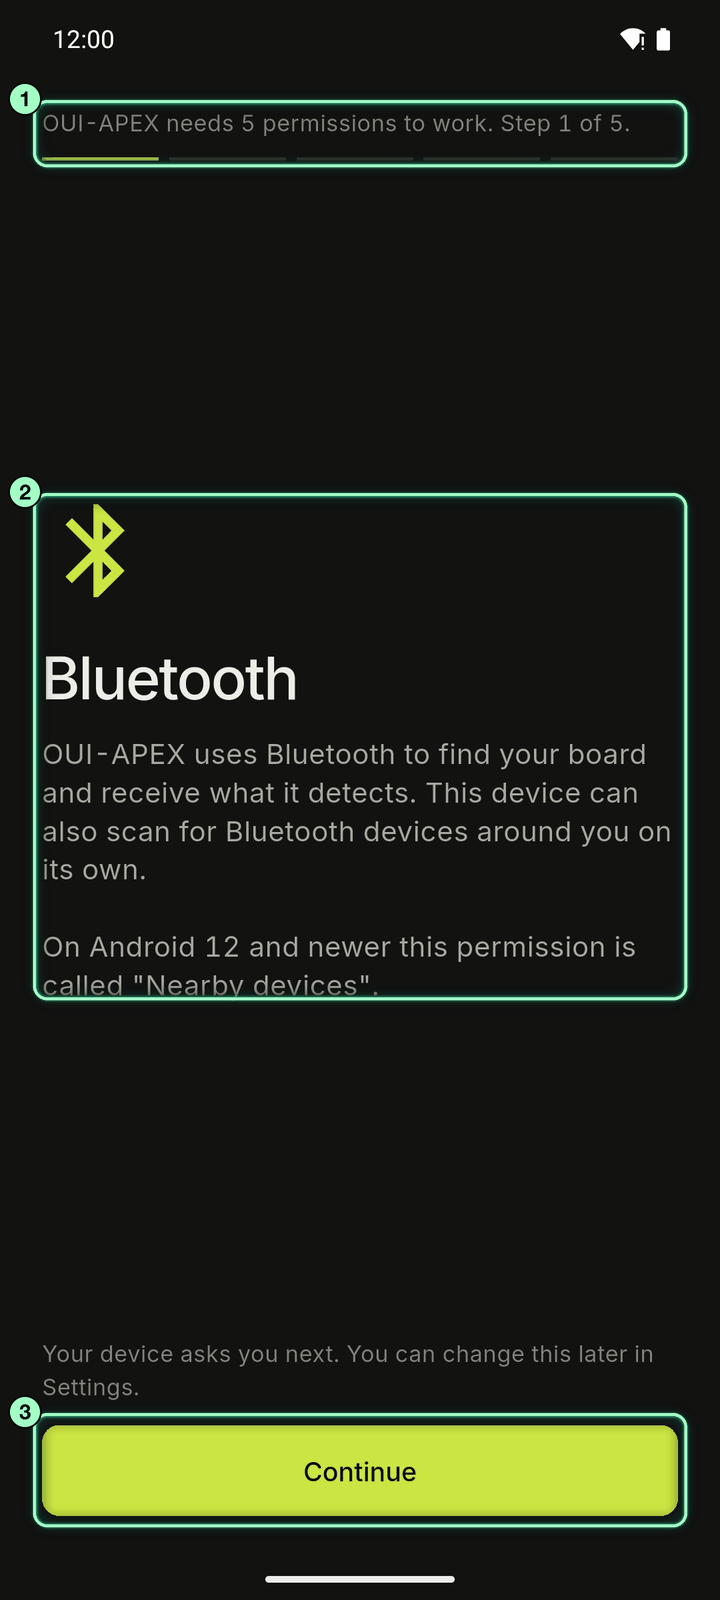
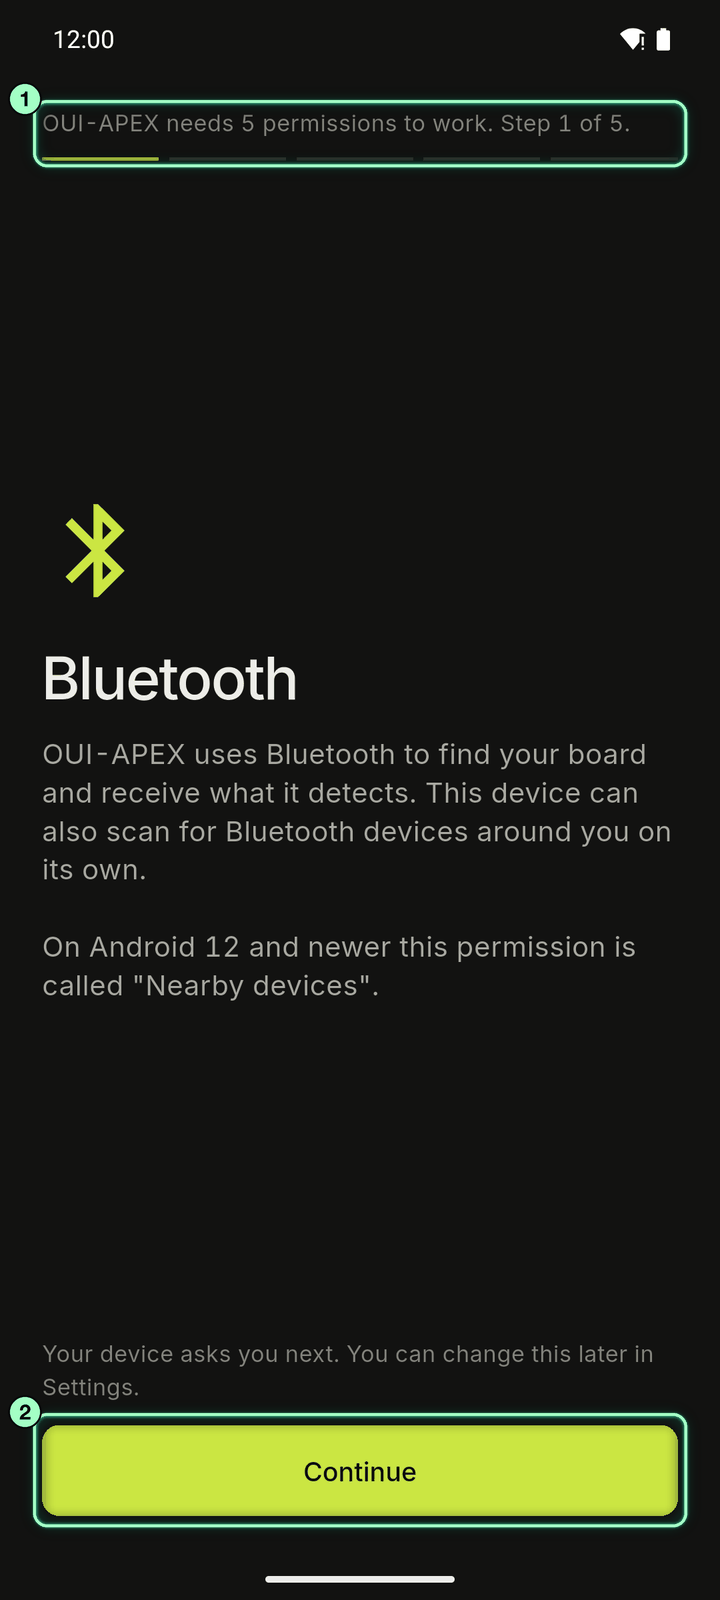
docs: trim text and highlights

Changed region(s): [[0.0, 0.2812, 0.9472, 0.625], [0.9167, 0.3125, 0.9778, 0.625]]

diff --git a/README.md b/README.md
@@ -73,7 +73,6 @@ The app asks for each permission on its own screen, then opens Home.
     <td width="33%" valign="top"><img width="240" src="docs/screenshots/tour/01-permissions.png" alt="Permission step: Bluetooth" />
       <ol>
         <li><b>Progress</b>: which permission step you are on. Android asks for five.</li>
-        <li><b>Why</b>: what the app uses this permission for.</li>
         <li><b>Continue</b>: your phone shows its own prompt next.</li>
       </ol></td>
     <td width="33%" valign="top"><img width="240" src="docs/screenshots/tour/02-location-always.png" alt="Permission step: location all the time" />
@@ -85,9 +84,7 @@ The app asks for each permission on its own screen, then opens Home.
       <ol>
         <li><b>Status</b>: board link and GPS fix.</li>
         <li><b>Shortcuts</b>: the arrows open the Connect screen. The phone icon starts the phone scan.</li>
-        <li><b>CONNECT</b>: find your board over Bluetooth.</li>
-        <li><b>USE THIS DEVICE</b>: scan with the phone's own radios.</li>
-        <li><b>Engines</b>: what each engine looks for.</li>
+        <li><b>USE THIS DEVICE</b>: scan with the phone's own radios, no board needed.</li>
       </ol></td>
   </tr>
 </table>
@@ -102,14 +99,12 @@ Pick what to look for and which radios to use, then tap START.
       <ol>
         <li><b>Counters</b>: unique devices, engines running, and hits per minute.</li>
         <li><b>Targets</b>: Flock cameras, drones, every Wi-Fi and BLE device (SCAN), and your watchlist (DETECT).</li>
-        <li><b>Radio</b>: Wi-Fi, BLE or both.</li>
         <li><b>START</b>: starts a session. The app then asks which radio each board uses.</li>
         <li><b>Engine cards</b>: turn one engine on or off by itself.</li>
       </ol></td>
     <td width="50%" valign="top"><img width="300" src="docs/screenshots/tour/05-home-running.png" alt="Home during a scan" />
       <ol>
         <li><b>Status</b>: what is scanning and how good the GPS fix is.</li>
-        <li><b>Counters</b>: update live.</li>
         <li><b>PAUSE / STOP</b>: pause or end the session. A stopped session is saved.</li>
         <li><b>Hit counts</b>: hits per engine this session, next to its switch.</li>
       </ol></td>
@@ -124,7 +119,6 @@ Everything the boards and the phone hear, live. Tap any row for its details.
   <tr>
     <td width="50%" valign="top"><img width="300" src="docs/screenshots/tour/06-live.png" alt="Live detections list" />
       <ol>
-        <li><b>Tabs</b>: LIVE hits, classified DEVICES, stored HISTORY and ALERTS.</li>
         <li><b>Tools</b>: filter, sort, group Wi-Fi clients under their network, open HISTORY, and more.</li>
         <li><b>Top vendors and Flock</b>: tap a vendor to show only its devices.</li>
         <li><b>A drone</b>: its Remote ID, the radio that heard it, and its altitude.</li>
@@ -133,12 +127,9 @@ Everything the boards and the phone hear, live. Tap any row for its details.
       </ol></td>
     <td width="50%" valign="top"><img width="300" src="docs/screenshots/tour/07-device-sheet.png" alt="Details of a Wi-Fi network" />
       <ol>
-        <li><b>Type</b>: what kind of device this is.</li>
         <li><b>What this looks like</b>: the app's best guess, in plain words.</li>
         <li><b>Foxhunt this device</b>: follow its signal to the source.</li>
-        <li><b>Check this AP on WiGLE</b>: look the network up on WiGLE.</li>
         <li><b>Trust this network</b>: warns you later about lookalikes. See <a href="#watches-and-alerts">Watches and alerts</a>.</li>
-        <li><b>Map, Copy, Delete</b>: show it on the map, copy its MAC address, or remove it.</li>
       </ol></td>
   </tr>
   <tr>
@@ -167,16 +158,12 @@ Choose which device types alert you. Every alert lands in one list.
     <td width="50%" valign="top"><img width="300" src="docs/screenshots/tour/08-alerts.png" alt="Alerts list" />
       <ol>
         <li><b>An alert</b>: what was found, why, and when. Tap it for the map and the device.</li>
-        <li><b>Kind</b>: each kind has its own color.</li>
         <li><b>Count and clear</b>: how many alerts, and a button to clear them.</li>
-        <li><b>Info</b>: explains each tab and icon.</li>
       </ol></td>
     <td width="50%" valign="top"><img width="300" src="docs/screenshots/tour/11-what-to-watch.png" alt="Settings, What to Watch For" />
       <ol>
         <li><b>Alert threshold</b>: how sure a detector hit must be before it notifies you.</li>
-        <li><b>A device type</b>: what it covers.</li>
         <li><b>Bell</b>: notify, or only log it.</li>
-        <li><b>Switch</b>: watch for this type or not.</li>
       </ol></td>
   </tr>
 </table>
@@ -190,21 +177,15 @@ Every hit is placed where you heard it, along your route. The numbers are how ma
     <td width="50%" valign="top"><img width="300" src="docs/screenshots/tour/10-map-list.png" alt="Map during a wardrive with the Flock list open" />
       <ol>
         <li><b>Session</b>: time recording, and counts of Wi-Fi, Flock, drone, detector and BLE hits.</li>
-        <li><b>Flock list</b>: tap the chip to open or close it. Drones and detector hits have their own.</li>
-        <li><b>Each hit</b>: its name, type, address and signal. Tap a row to zoom the map to it.</li>
+        <li><b>Flock list</b>: tap the chip to open or close it. Tap a row to zoom the map to it. Drones and detector hits have their own lists.</li>
         <li><b>Drive</b>: distance, speed, hits per km, and Stop / Pause.</li>
       </ol></td>
     <td width="50%" valign="top"><img width="300" src="docs/screenshots/tour/09-map.png" alt="A saved wardrive session on the map" />
       <ol>
         <li><b>Saved session</b>: unique devices, total hits and distance.</li>
         <li><b>Lists</b>: Flock, drone and detector hits from this session.</li>
-        <li><b>CSV</b>: export the session as a WiGLE CSV.</li>
-        <li><b>Layers</b>: map style and extra layers.</li>
         <li><b>A drone</b>: its flight path and its pilot.</li>
         <li><b>A cluster</b>: tap it to list the devices there.</li>
-        <li><b>Targets</b>: what the next session looks for.</li>
-        <li><b>Radio</b>: Wi-Fi, BLE or both.</li>
-        <li><b>START</b>: start a new session.</li>
         <li><b>SESSIONS</b>: open, export or delete saved sessions.</li>
       </ol></td>
   </tr>
@@ -220,21 +201,14 @@ Every session is saved. Open one to replay it on the map, or open its report.
       <ol>
         <li><b>SELECT, IMPORT, CLEAR ALL</b>: pick several sessions, load a WiGLE CSV, or delete them all.</li>
         <li><b>A session</b>: when, how long, how far, and its Wi-Fi, BLE, Flock, drone and detector counts. Tap it to replay it on the map.</li>
-        <li><b>REPORT</b>: opens the report.</li>
-        <li><b>CSV, DELETE</b>: export or remove this session.</li>
       </ol></td>
     <td width="33%" valign="top"><img width="240" src="docs/screenshots/tour/14-report.png" alt="Wardrive report, top" />
       <ol>
-        <li><b>Session</b>: start time, length and distance.</li>
         <li><b>Totals</b>: Wi-Fi networks, how many were new, and Bluetooth devices.</li>
-        <li><b>Route</b>: where you drove.</li>
         <li><b>Wi-Fi networks</b>: new, seen before, hidden, and per band.</li>
-        <li><b>Share</b>: sends the report as text.</li>
       </ol></td>
     <td width="33%" valign="top"><img width="240" src="docs/screenshots/tour/15-report-detail.png" alt="Wardrive report, details" />
       <ol>
-        <li><b>Security</b>: how many networks use each kind of security.</li>
-        <li><b>Top makers</b>: the most common device makers.</li>
         <li><b>Detections</b>: Flock cameras, drones and watchlist hits.</li>
         <li><b>Alerts</b>: every alert kind raised during the session. Further down, whether it was uploaded to WiGLE and WDGWars.</li>
       </ol></td>
@@ -261,12 +235,12 @@ Every session is saved. Open one to replay it on the map, or open its report.
 | **Detector** | Your watchlist (exact MAC, maker prefix, Bluetooth name contains, starts with or pattern, Bluetooth company ID, company data with a mask, 16-bit or 128-bit service UUID, Wi-Fi probe prefix, Wi-Fi beacon prefix, and a phone-only maker name), plus built-in signatures, all off by default: tracker tags following you (AirTag, AirPods and other Find My items, SmartTag, Tile, Google Find Hub, Chipolo, Pebblebee, DULT-standard tags), floods of new tracker tag addresses, Flipper Zero, Wi-Fi deauth floods, floods of join requests at one access point, Wi-Fi beacon floods (one radio faking 15+ networks), directed probes, evil-twin and KARMA rogue access points, Pwnagotchi, Meshtastic and MeshCore mesh radios, Meta Ray-Ban / Oakley glasses, Axon / law-enforcement gear, Motorola Solutions radios and body cams, i-PRO body cams, police and fleet vehicle routers, security / doorbell / dash cameras by vendor OUI or camera brand in the network or device name (Ring, Nest, Arlo, Blink, Wyze, Hikvision, Dahua and others), Amazon Sidewalk BLE, wearable cameras and recorders (GoPro, Insta360, Snap Spectacles, Even Realities, Vuzix, Brilliant Labs Frame, PLAUD), vehicles (Teslas, Bluetooth OBD-II dongles), drones over Bluetooth (Remote ID, DJI) |
 | **Flock BLE / Flock WiFi** | Flock Safety ALPR cameras, Raven gunshot sensors, Penguin and Pigvision. Optional OUI-only Wi-Fi hits |
 | **Sky Spy** | Drones broadcasting FAA Remote ID over BLE and Wi-Fi: ID, position, altitude, speed, pilot position |
-| **Foxhunter** | One target device. Beep rate (or the RSSI meter on boards without a buzzer) rises as you get closer. The app's FIND IT view shows the signal in dBm and a ring that pulses faster as it climbs (every 1.4 s weak, every 0.09 s close), and the phone buzzes with each pulse; **Buzz on** / **Buzz off** switches it, and a Mac has no buzz. The reading comes from the node that hears the device best |
+| **Foxhunter** | One target device. The board beeps faster as you get closer. The app's FIND IT view shows the signal and a ring that pulses faster, and the phone can buzz with it |
 | **UniPwn** | Unitree robots by BLE name (`Go2_`, `G1_`, `H1_`, …) |
 | **Wardrive** | Every Wi-Fi AP and BLE device, GPS-stamped, WiGLE CSV format. 2.4 GHz channels 1–14 by default; C5 boards add 5 GHz including DFS and, with the **802.15.4 (Zigbee, Thread)** switch, passive 802.15.4 receive on channels 11–26 (PAN ID, source address, beacon info, channel, LQI; receive only, never transmits) |
 | **PCAP** | Raw 802.11, BLE advertising or (C5 boards) 802.15.4 frames to a Wireshark `.pcap` |
-| **AXEOFF** | Axon gear only, headless: BLE adverts with Axon's company ID `0x034D`, service `0xFC81` / `0xFE6B` / `0xFE6C` or `00:25:DF` address prefix, and Wi-Fi probe requests and beacons from `00:25:DF` while it sweeps channels 11 to 1. Passive on both radios. Hits show as Axon detections; the board plays the Axon appeared, still-near (faster as it gets closer) and lost tones, and a four-note start tone. It stops reporting after 8 s of silence. On a mesh node it joins the channel handoff like the other Wi-Fi engines, and a manager's Sky Spy node denies it |
-| **BLE Sniff** | Every Bluetooth LE advert, repeats included, as a live list (type, address kind, signal, name, services, maker) with filters for advert type and address kind, and **RECORD PCAP** to save a Wireshark file on the phone. Passive, never sends a scan request. Stop PCAP capture first, they share the Bluetooth radio. Needs the phone connected to the board: the list is not relayed over the mesh, so on a manager pick the node to sniff on |
+| **AXEOFF** | Axon gear only, on Bluetooth and Wi-Fi, passive. The board plays a tone when Axon gear appears, while it stays near, and when it leaves |
+| **BLE Sniff** | Every Bluetooth LE advert as a live list, with filters and **RECORD PCAP**. Passive. Needs the board connected to the phone directly, or picked as the node on a manager |
 | **FPV receiver** | Analog 5.8 GHz FPV video transmitters on 44 of the 48 standard channels. XIAO ESP32-C5 only. See [FPV receiver](#fpv-receiver) |
 
 > [!IMPORTANT]
@@ -295,7 +269,9 @@ DETECTIONS → HISTORY can filter by tier.
 | **Phone + USB radios** | Android, no board; plug in an RTL-SDR and/or a USB Wi-Fi adapter | SDR decodes 315 / 433 / 915 MHz and ADS-B. A USB Wi-Fi adapter scans Wi-Fi, and the MT7921AU also scans Bluetooth LE. Both run alongside the phone's radios |
 
 - **Offline scan** (SETTINGS → NODE → OFFLINE SCAN): the board keeps scanning without the phone, even after a reboot, and uploads hits on reconnect. A directly connected board with a GPS module fix also wardrives, one row per device every 5 min, up to 1 MB. It stops after 60 s without a fix.
-- **Private Bluetooth link:** the board changes its private address at random every 5–15 min. After pairing, it hides its name and refuses unknown phones. The paired phone reconnects on its own, even after a reboot. Pairing asks for the board's 6-digit PIN: 123456 on a new board. The CONNECT screen shows this under each new board. Change it in SETTINGS → NODE → Firmware → **Bluetooth PIN**. While a connected board still uses 123456, the app offers **SET PIN** or **LATER** after connecting, once per board each time the app starts. A PIN of 123456 is not accepted as your own. If pairing fails, CONNECT says whether the board is not taking new phones or the PIN was wrong. A phone paired before the PIN existed must forget the board and pair again. To pair another phone, restart the board: it accepts one new phone in the 2 min after power-on. After updating an S3, C3 or older ESP32 board, forget it in your phone's Bluetooth settings and pair again.
+- **Private Bluetooth link:** after pairing, the board hides its name, changes its address every 5–15 min and refuses unknown phones. The paired phone reconnects on its own.
+- **PIN:** a new board's PIN is 123456. The app asks you to set your own after the first pairing. Change it in SETTINGS → NODE → Firmware → **Bluetooth PIN**.
+- **Pair another phone:** restart the board. It accepts one new phone in the 2 min after power-on. After updating an S3, C3 or older ESP32 board, forget it in your phone's Bluetooth settings and pair again.
 - **JCMK node hub** (SETTINGS → NODE → JCMK NODE HUB): the board adds Wi-Fi networks from [Piglet](https://github.com/hamspiced/piglet) ESP-NOW nodes to your wardrive. Tap **Start hub**, power on a Piglet, and tap **Pair** under **Nearby nodes**. The hub board leaves the mesh while it runs. The wardrive radio picker can leave out any paired node.
 
 ## App
@@ -369,7 +345,7 @@ These features add their own alerts and set how alerts sound.
 - **Movement alerts** (Detection & Alerts → What to Watch For, off by default) warn about a car following you, an aircraft circling you (ADS-B), a drone hovering near you or its pilot closing in, and a device moving from one mesh node to another. A car counts as following when the RTL-SDR hears its tire sensors over 2+ km and 10+ min. The app learns your own car.
 - **Watchlist** imports and exports as CSV or JSON in SETTINGS → Detection & Alerts → Your Lists. A CSV row is `identifier,description,kind` where kind is OUI, MAC, UUID, CONTAINS, STARTS, PATTERN, COMPANY, DATA, PROBE, BEACON or MAKER; JSON rows use `matchType` with the same kinds by their camelCase names.
 - **Add a rule** (the **+** on the watchlist) builds a rule from a kind and a value. Bluetooth rules: exact MAC; maker prefix; name contains, starts with, or pattern (`#` a hex digit, `?` any character, `*` any run, whole name, such as `S################C` for a Tesla); company ID (`004C`); company data with a mask (`004C:121910/FFFF30`: the bits set in the mask must match); service UUID, 16-bit (`FD5F`) or 128-bit. Wi-Fi rules: probe prefix (the source address of a probe or association request) and beacon prefix (a beacon or probe response), 3 to 6 bytes. A maker name rule is phone-only: it flags a WiGLE import or rescan row whose address maps to that maker, and nodes never receive it. Name rules are ASCII, up to 18 characters, and ignore case.
-- **Rule limits:** a board holds 50 MAC and prefix rules, 50 service UUIDs and 32 name, company, Wi-Fi and 128-bit rules. One mesh frame carries 220 bytes of the list (about 31 MAC rules, fewer with other rules), so with a manager the fleet list gets the first part and the add and import messages say so. Nodes name a rule they match by its kind and value, such as "Name has Flipper"; the description you type stays on the phone. A board on firmware without these rules ignores them and keeps the MAC, prefix and 16-bit UUID rules; a node that old still reports a list as taken. Rules never reach firmware that predates them, and an app that predates them reads the new kinds as maker prefixes it cannot parse and sends nothing for them.
+- **Rule limits:** a board holds 50 MAC and prefix rules, 50 service UUIDs and 32 other rules. Through a manager, the mesh carries about 31 MAC rules, and the app says when a list is cut short. Older firmware keeps only the MAC, prefix and 16-bit UUID rules.
 - **Alert when a board hears it** (tap a Bluetooth device in the feed) adds its exact MAC to the watchlist. The connected board, and through a manager every mesh node, then reports it as a detection. **UNDO** in the message takes it back off. A device with a random address may change it.
 - **Alert sounds** plays a built-in melody or one you compose for each alert type. You can preview it on the board. **Sound on this phone** in the same screen turns the phone's sound on or off for filter hits, trackers, watched devices, drones, node down and node back.
 - **Alert again** (SETTINGS → Detection & Alerts → Notifications → **Repeat for a device**): a device alerts the first time, and again once it has gone 60 seconds unheard. The slider changes that time.
@@ -385,8 +361,8 @@ These features add their own alerts and set how alerts sound.
 - **Measure:** tap the ruler button, then tap the map to add points. The label shows the total length. Tap the ruler again to stop.
 - **Follow on map:** tap a drone that sends Remote ID, then **Follow on map**. The map opens and keeps the drone centered as its position updates. A chip at the top names it. Tap its **X**, drag the map, or tap the follow button to let go.
 - **Detection location:** a drone's flight shows the spot where this phone was when the flight was first heard, a dashed line to the drone and the range, on its drone page, the Sky Spy map and the main map. A flight ends after 5 minutes unheard (25 minutes while it stays above 10 m).
-- **Drones list:** SKY SPY → the history button opens every drone heard in a window of 1, 4, 8 or 24 hours, all time, or dates you pick, the ones in the air first. A drone you named shows that name with its ID underneath. The top shows how many are live, airborne, have a pilot located, the highest height and how many are in the window. Tap a drone for its page: its tag, **Name, group and notes** (your name shows as the page title, the same name the feed uses for that MAC), a map of the flight with its pilot and detection location, its FAA record, its past flights and its kit.
-- **Remote ID or FPV:** the Drones list has **All**, **Remote ID** and **FPV** chips under the time window. FPV rows show the channel and `LVL` (a relative level, not dBm) with no pilot and no FAA record, and are left out of the pilot count. The chip you pick is remembered, like the time window. Export saves the rows the chip shows. With a connected XIAO ESP32-C5 running the FPV receiver, an **FPV RECEIVER** card on **All** and **FPV** shows the receiver's state, tuned channel, level and flagged count. Tap it to open the FPV receiver. It shows no picture.
+- **Drones list:** SKY SPY → the history button opens every drone heard in a time window you pick, the ones in the air first. Tap a drone for its page: its tag, **Name, group and notes**, a map of the flight with its pilot, its FAA record, past flights and kit.
+- **Remote ID or FPV:** chips under the time window filter the Drones list. FPV rows show the channel and a relative level, with no pilot. With an FPV receiver running, an **FPV RECEIVER** card opens it.
 - **Tags:** tag a drone **Friendly**, **Neutral**, **Suspicious** or **Hostile** on its page. The tag colors its marker, shows in the lists and in exports, and is kept on this phone.
 - **Drone log:** every Remote ID report is saved to the phone for 90 days. **Export logs** on the Drones list or a drone's page saves a CSV (every report; FPV rows leave `rssi_dbm` empty and fill `level`) or KML (flights, pilot, detection location and range, for Google Earth and ATAK).
 - **Drone kit:** a drone's page lists the devices that belong to it: controller, goggles, dock, Remote ID module, the drone's own Wi-Fi, pilot phone or other. Add a device you heard, or take a suggestion: a device with a known controller or module name, or one heard almost only around the drone's flights, near its pilot or take-off.
@@ -402,7 +378,7 @@ These features add their own alerts and set how alerts sound.
 The app saves Wi-Fi, BLE or 802.15.4 traffic as PCAP files that Wireshark opens.
 
 - Start, pause and resume a capture by hand.
-- **802.15.4** mode needs a C5 board; on any other it stays visible, disabled, with the reason. The **5 GHz** setting under Wi-Fi works the same way. Pick a channel range from 11 to 26; the board hops through it. Frames save with link type 195 (IEEE 802.15.4 with FCS, recomputed from the frames the radio accepted) in a `_154_` file. A T-Dongle-C5 also writes `cap_*_154.pcap` to its SD card. The pcap carries no channel or signal level.
+- **802.15.4** and **5 GHz** need a C5 board. Pick a channel range from 11 to 26 and the board hops through it. A T-Dongle-C5 also writes `cap_*_154.pcap` to its SD card.
 - Auto-PCAP records 3–120 s whenever an engine fires.
 - SETTINGS → DATA → PCAPS lists saved captures.
 - **PROBES** (the toggle at the top of the PCAP screen, next to **CAPTURE**) is the probe database: which Wi-Fi networks nearby phones and laptops ask for by name. It fills from the detector's probe-request check and from every Wi-Fi capture, and is kept on the phone. **DEVICES** lists each asking device with its maker, probe count, signal, band, first and last heard and every network it names (a device that names the same networks as other MACs is flagged); **NAMED** hides devices that only ask for any network; **NETWORKS** ranks the names by how many devices ask, with their makers and any matching access points from your wardrives. Search, sort, **THIS RUN** and **CLEAR** are on the same screen.
@@ -410,7 +386,7 @@ The app saves Wi-Fi, BLE or 802.15.4 traffic as PCAP files that Wireshark opens.
 ### 802.15.4 wardrive (C5 boards)
 
 - A **802.15.4 (Zigbee, Thread)** switch sits under the radio picker. On a C5 board it works; on any other board, or with none connected, it stays off and disabled, with the reason.
-- The C5 has one RF path shared by Wi-Fi, BLE and 802.15.4, and 802.15.4 receive has the lowest priority. So the board hops 802.15.4 channels 11–26 in its own slot about every 8 s (about 2.4 s long), pausing Wi-Fi sniffing and BLE scanning for that slot. Frames sent outside the slot are missed.
+- The board listens on channels 11–26 for about 2.4 s every 8 s, and pauses Wi-Fi and BLE scanning meanwhile. It misses frames sent outside that window.
 - Sightings show in the feed and on the map in lime. Each shows the network name (Thread), PAN ID, short or EUI-64 source address, channel and LQI. Zigbee and Thread beacons also show the extended PAN ID and stack info.
 - The radio only listens: promiscuous mode, no ACKs, no beacons, no transmit.
 - Sightings are not in WiGLE exports, the board's away log or the T-Dongle's WiGLE CSV, which have no 802.15.4 type. They are in the detections CSV with radio `802.15.4`.
@@ -426,9 +402,6 @@ On a XIAO ESP32-C5 the app finds analog 5.8 GHz FPV video transmitters. It recei
       <ol>
         <li><b>Status</b>: LOCKED, TUNED or the running mode, the channel, its level, coherence and noise floor, and how many channels are flagged.</li>
         <li><b>Proximity</b>: the needle moves toward CLOSE as the tuned channel rises above the floor.</li>
-        <li><b>LEAVE FPV</b>: stops the receiver and restarts the Wi-Fi engines.</li>
-        <li><b>Modes</b>: SCAN, SWEEP or HOP.</li>
-        <li><b>Channel</b>: the arrows step to the previous or next channel and hold it.</li>
         <li><b>Channels</b>: brighter is stronger, a bolt marks a flagged transmitter, and tapping a cell holds that channel.</li>
       </ol></td>
   </tr>
@@ -442,7 +415,6 @@ On a XIAO ESP32-C5 the app finds analog 5.8 GHz FPV video transmitters. It recei
 - **Feed:** flagged channels appear in the Sky Spy list, the Drones list (**FPV** chip) and the feed as `FPV A1 5865`, with no position.
 - **Wi-Fi:** Wi-Fi engines pause while FPV is on and restart when you tap **LEAVE FPV**. FPV refuses to start while mesh or the ESP-NOW hub is on.
 - **Pins:** FPV drives GPIO 1, 0, 23, 7, 10, 5, 3 and 4 with receiver data. Keep them unconnected. It is not available on the T-Dongle-C5 or on manager builds.
-- **No video:** the raw receiver data is 40 MB/s and Bluetooth carries well under 0.2 MB/s, so the app shows signal levels only.
 - **Serial log:** every state change prints a line that starts with `[FPV]`.
 
 ### Lock screen and notifications
@@ -479,7 +451,7 @@ A language model can read what the app has seen and, when you allow it, change t
 - **ASK** is a chat. Every tool the model runs shows in the conversation with its arguments and what it returned. It stops after 12 rounds, and **Stop** cancels a run. The conversation is kept in memory only; **Clear the conversation** ends it.
 - **INTEL** (needs DEVICES) tells you what the model makes of one device: maker, likely kind, why it may matter. It sees the device's name, MAC, maker and how it was heard, never where.
 - **REPORTS** sums up the last 6, 12, 24 or 48 hours when you tap **Write one now**: new devices, alerts, drones, the wardriver and the mesh, within the grants. Positions are never included.
-- **Automatic (both off by default):** under **Automatic** in the same settings, **Look into new alerts automatically** runs INTEL on the device behind each new alert: at most one every 20 seconds and 40 a day, and never on a device that already has a note. **Write a report automatically** writes a report **Every** 1, 2, 4, 6, 12 or 24 hours, or **Daily** at a time you pick, covering the time since the last one (at most 7 days). Both run only while the app is open, with the assistant on and a model provider set up; INTEL also needs DEVICES, and a report needs at least one of DEVICES, DRONES, WARDRIVE or MESH. A report missed while the app was closed is written once when it next opens. Switching either on asks first, because it sends data to the provider without a tap, and names a cloud provider. Positions are never included.
+- **Automatic (both off by default):** **Look into new alerts automatically** runs INTEL on each new alert's device, at most 40 a day. **Write a report automatically** writes one every 1 to 24 hours, or daily at a time you pick. Both run only while the app is open, and ask first because they send data without a tap. Positions are never included.
 - **Text from the air is untrusted.** Names and network names are sent to the model as data, and it is told never to follow instructions found in them. Every change to the board still waits for your OK, whatever the model asks.
 - **Grants:** each of DEVICES, DRONES, WARDRIVE, MESH, CAPTURES, LOCATION, CONTROL and IRREVERSIBLE is off until you switch it on. Device health is always readable while the assistant is on. A tool outside the grants is refused.
 - **LOCATION off** removes every position from what the model reads: sightings, drones and pilots, mesh nodes. Positions are also scrubbed from the text of every reply.
@@ -524,14 +496,13 @@ The app can pair this phone's own Meshtastic radio over Bluetooth, so you can se
 
 - **Find a radio:** scans for radios that advertise the Meshtastic Bluetooth service. A radio talks to one phone at a time, so close the Meshtastic app first. If Android asks for a PIN, the radio's default is 123456.
 - **Reconnect:** the app connects to the saved radio when it starts and tries again every 15 s if the link drops. **Disconnect** or **Forget this radio** stops it.
-- **Channel:** the app sends only on a channel that has a key of its own. It never sends on the public channel (no key, or the one-byte default key), and it cannot be chosen. If the radio has no private channel, add one in the Meshtastic app. The app reads each channel's key length to tell the two apart and does not keep or show the key.
+- **Channel:** the app sends only on a private channel with its own key, never on the public one. If the radio has no private channel, add one in the Meshtastic app.
 - **Send a message** sends up to 200 characters. **Send my position** sends this phone's last position once, after you confirm. Nothing else is sent unless you turn on **Send alerts automatically** (below).
 - **Heard on the radio** lists the last text messages the radio received on the private channel. **Sent / heard** counts them.
-- **Send alerts automatically** is off by default and asks you to confirm when you turn it on. The app then sends each alert that already notifies you as a text, "OUI-APEX title: detail" cut to 200 bytes, with no tap. It includes what was detected and the device address, and never a position. Silenced alerts and silent suspected detections are not sent. An alert is skipped, and counted, when the radio is not connected, no private channel is picked, or a limit is hit.
-- **Alert types** choose which alerts go out: **Flock**, **Drones**, **Detector and watchlist**, **Foxhunt** (off by default) and **Node down and up**.
-- **Minimum gap between messages** (10 to 600 seconds, 60 by default) and **Messages per day** (1 to 200, 50 by default) keep a busy day off the shared LoRa channel. **Sent today** shows the count, for example "3 of 50 · skipped 2".
-- **Send to** sends each alert on the private channel, or straight to up to four nodes you name, like `!0a1b2c3d`. Auto-send works only while the radio is connected in the app.
-- **Change radio** scans again. **Forget this radio** disconnects and removes the saved radio and channel.
+- **Send alerts automatically** is off by default and asks you to confirm. Each alert that notifies you then goes out as a short text with what was detected and its address, never a position. Alerts are skipped and counted when the radio is not connected or a limit is hit.
+- **Alert types:** **Flock**, **Drones**, **Detector and watchlist**, **Foxhunt** (off by default) and **Node down and up**.
+- **Limits:** **Minimum gap between messages** (10 to 600 s, default 60) and **Messages per day** (1 to 200, default 50).
+- **Send to:** the private channel, or up to four nodes you name, such as `!0a1b2c3d`.
 
 ### App updates
 
@@ -587,7 +558,6 @@ Use an RTL2832U dongle with USB ID `0bda:2832` or `0bda:2838`. Open the SDR scre
     <td width="50%" valign="top"><img width="300" src="docs/screenshots/tour/12-sdr-scan.png" alt="SDR SCAN with decoded devices" /></td>
     <td width="50%" valign="top">
       <ol>
-        <li><b>Mode</b>: Spectrum, ADS-B or SCAN.</li>
         <li><b>Bands</b>: pick 315, 433 or 915 MHz, or several to sweep them, then tap START.</li>
         <li><b>Types</b>: tap a chip to turn that type on or off. Each chip counts what it found.</li>
         <li><b>Decoded devices</b>: newest first. Tap one for its details and to foxhunt it.</li>
@@ -686,15 +656,15 @@ Detector MAC, OUI and UUID targets, their labels, and signatures set in the app 
 - The manager pushes buzzer, LED, alert, alert-sound, ignore-list, wardrive-radio and Wi-Fi-band settings to every node.
 - Any mix of node boards works under one manager.
 - **Read all** (SETTINGS → NODE → MESH → **Fleet control**) asks every node for its build, filter count, uptime and how many peers it hears. The answers show under each node in **Nodes**. **Read status** in a node's own dialog asks just that node. Nodes on older firmware do not answer.
-- **Presets** (SETTINGS → Detection & Alerts → Your Lists → Watchlist → **Presets**) are ten signature sets: Axon, Meta glasses, i-PRO, Verkada, Trackers, Drones, Vehicles, Wearables, Flipper and Police. Tap one for **WATCH ON PHONE** (its rows join the watchlist) or **INSTALL ON NODES** (all nodes, or the ones you tick). A node holds the table itself, so an install is one small message however long the set is. A node set to Bluetooth only skips a preset's Wi-Fi rows, and one set to Wi-Fi only skips the Bluetooth rows; a preset with nothing the node can match is refused, and the message says why. A node holds 32 name, company, Wi-Fi and 128-bit rules, so the Police, Meta and Wearables sets together do not all fit; it takes what fits and the message counts the rest as skipped.
-- **A node's filters** (a node in **Nodes** → **Filters**, through a manager) reads what the node watches for, adds a rule, removes one, installs a preset, replaces the list with this phone's watchlist, or clears it. Each node's answer shows in its row and in the message. A node you edit keeps its own list: the manager's periodic list no longer overwrites it. A new watchlist from the phone (or **Alert when a board hears it**) replaces every node's list again. Nodes on firmware without filter edits do not answer, and the message says so. Presets and filters need a manager; a board connected directly takes its list from the watchlist.
-- **Watchlist results:** after the manager pushes the watchlist, each node answers whether it took it. The message after **Alert when a board hears it** says how many nodes did, such as "On 3 of 4 nodes; NODE2 refused (list too long for it)". Each node in **Nodes** shows its own result. A node refuses when its firmware has no detector, when the manager has turned its detector off, or when the list does not fit. Nodes on older firmware take the list without answering.
-- **Signal** (SETTINGS → NODE → MESH → **Signal**) lists who hears whom, one row per link: "NODE1 hears NODE2" and its strength in dBm. Each direction is its own row. A board reads dBm when it is an ESP32-C5 or is running a Wi-Fi engine; otherwise its row says **Heard**. The manager updates the list about every 6 seconds.
-- **Channel** (SETTINGS → NODE → MESH → **Channel**) moves the whole mesh to channel 1 to 11. Pick the number, tap **Move fleet to channel**, confirm. The manager asks every live node to confirm, and only when all have answered do the manager and the nodes switch together about 3 seconds later; the boards keep their settings and the key, and nothing reboots. **Last change** and each node under **Nodes** say which nodes confirmed and which are on the new channel. If a node does not answer within 15 seconds, nothing moves and the screen names it; **Move anyway** moves with the nodes that did answer. The channel is saved on each board and survives a reboot. Nodes and managers on older firmware ignore the order, so update them first.
-- **Finding the fleet again:** a node that has heard no manager for 2 minutes listens on each channel 1 to 11 in turn for about 2 seconds each, adopts the channel the manager says it is on and saves it, and tries again after 4, 8 and then every 15 minutes. A node that confirmed a move but missed the switch checks the new channel after 12 seconds of silence. A node that has never joined a fleet, or one that is on its own, does the same sweep, so it costs a stand-alone node about 20 seconds of scanning every 15 minutes. The manager never sweeps. The manager states its channel after each heartbeat, and a node that hears it state another channel 3 times within 15 seconds moves there, since nearby channels overlap and a close node can hear the manager from the wrong one.
+- **Presets** (SETTINGS → Detection & Alerts → Your Lists → Watchlist → **Presets**) are ten signature sets: Axon, Meta glasses, i-PRO, Verkada, Trackers, Drones, Vehicles, Wearables, Flipper and Police. Tap one for **WATCH ON PHONE** or **INSTALL ON NODES**. A node takes the rules it can hold, and the message counts the rest as skipped.
+- **A node's filters** (a node in **Nodes** → **Filters**, through a manager) shows what one node watches for, and adds, removes, replaces or clears its rules. An edited node keeps its own list until the phone sends a new watchlist.
+- **Watchlist results:** each node reports whether it took the watchlist, such as "On 3 of 4 nodes; NODE2 refused (list too long for it)".
+- **Signal** (SETTINGS → NODE → MESH → **Signal**) shows how strongly each node hears each other node, one row per direction, updated about every 6 s.
+- **Channel** (SETTINGS → NODE → MESH → **Channel**) moves the whole mesh to channel 1 to 11. Every node confirms first, then all switch together without a reboot. If a node does not answer within 15 s, nothing moves unless you tap **Move anyway**. Update older nodes first.
+- **Finding the fleet again:** a node that hears no manager for 2 minutes scans channels 1 to 11 to find it, then retries every 15 minutes.
 - Fleet update (SETTINGS → NODE → FIRMWARE): each node downloads its own board's image over Wi-Fi. Nodes older than v0.6.1 get the board picked in the app.
-- **Firmware over the mesh** (SETTINGS → NODE → MESH → **Fleet control**, or SETTINGS → NODE → FIRMWARE) updates the nodes you tick over the mesh itself, with no Wi-Fi. Load a node build as a `.bin` file or from a link. The app checks it before anything is sent: an ESP32 app image, the chip, the app slot size, the OUI-SPY signature and its SHA-256, which it shows. Each node is marked **Current** (already runs this build), **Older** (runs any other build, even a newer one), **Other board** (the image can't go on it, so it can't be ticked) or **Build unknown**. **Update** needs a second tap. The image is saved once on the manager on the phone's link, then sent to one node at a time (up to 8); each row shows its step, rate and time left, and **STOP** ends the transfer in flight and restarts the node that was receiving. A node already on the build can still be ticked to re-flash it. A node checks the signature itself, restarts into the build and rejoins. Needs a manager on firmware with this feature; nodes on older firmware ignore it and still update over Wi-Fi.
-- **Fleet metrics** (SETTINGS → NODE → MESH → **Fleet control**) shows the mesh counters (state, TX / RX, failed key checks, each node's build, filters, uptime, peers and temperature), then the logged detections for the last hour, day, week or month, all nodes or one, in three views. **Detections**: detections against the span before, unique devices, new devices (never logged before the span), active nodes, the busiest period, BLE and Wi-Fi device counts, detections over time, and by node, vendor and type, a signal histogram and a weekday by hour grid. **Wardrive**: devices, new, open networks, devices with a position, discovered over time (new BLE and Wi-Fi devices per period), Wi-Fi security mix, Wi-Fi channels with the 2.4 and 5 GHz split, top makers and by node. **Drones**: Remote ID reports, drones, drones heard in the last minute, highest altitude (and above ground), top speed, best signal, reports over time, by node, and each drone with its tag, reports, peaks, node and last report.
+- **Firmware over the mesh** (SETTINGS → NODE → MESH → **Fleet control**, or SETTINGS → NODE → FIRMWARE) updates the nodes you tick over the mesh, with no Wi-Fi. Load a node build as a `.bin` file or from a link. The app checks the image, the chip and the signature before sending. Nodes update one at a time, each row shows its progress, and **STOP** cancels. Needs a manager on firmware with this feature.
+- **Fleet metrics** (SETTINGS → NODE → MESH → **Fleet control**) shows each node's build, uptime, peers and temperature, then the last hour, day, week or month of logged activity in three views: **Detections**, **Wardrive** and **Drones**.
 
 <table>
   <tr>

diff --git a/docs/release-notes/v0.7.0.md b/docs/release-notes/v0.7.0.md
@@ -6,14 +6,14 @@ App 0.7.0, firmware 0.7.0. This release brings over the features of the OUI SPY 
 
 ## New
 
-- **FPV receiver (XIAO ESP32-C5):** finds analog 5.8 GHz FPV video transmitters on 44 of the 48 standard channels. **SCAN** stops on the strongest transmitter, **SWEEP** keeps the channel grid live and **HOP** visits flagged channels. A proximity gauge swings from FAR to CLOSE as you get nearer. A transmitter only lights its own channel: neighbors within 19 MHz that pick up its bleed stay dark. Flagged transmitters show up in the Drones list under the **FPV** chip. Receive only, no picture.
+- **FPV receiver (XIAO ESP32-C5):** finds analog 5.8 GHz FPV video transmitters on 44 of the 48 standard channels. A gauge swings toward CLOSE as you get nearer, and only the transmitter's own channel lights up. Flagged transmitters show in the Drones list under **FPV**. Receive only, no picture.
 - **Drones:** a page per drone with a saved name, tag and notes, a 90-day report log with CSV and KML export, a **Remote ID** or **FPV** filter, and **Follow** on the map.
 - **Alerts:** alert zones on the map, re-arm after a quiet period, alerts when a node goes down or comes back, and **Silence all**.
 - **Search:** one search box across detections, drones, alerts and nodes, with counts that wrap on narrow screens.
 - **Devices:** name, group and notes on any device, a single-device export, and **Alert when a board hears it**, which adds the device to the boards' watchlist and can be undone.
 - **Map:** pins, a measure tool, offline map areas (OpenFreeMap and USGS), and triangulation of a device heard by three placed nodes (off by default).
 - **Assistant:** a language model (Ollama, Claude, OpenAI or Gemini) can read what the app has seen and act within grants you switch on. Automatic alert lookups and scheduled reports are both off by default.
-- **Meshtastic radio:** pair the phone's own Meshtastic radio over Bluetooth, pick a private channel, and send a message or your position by LoRa. It has its own page, SETTINGS → DATA → **Meshtastic radio**, with automatic alerts: off by default, per-type toggles, a minimum gap, a daily cap and a choice of channel or nodes. The app reconnects to the saved radio at start and every 15 s after the link drops. Radios with a Bluetooth PIN pair from the app.
+- **Meshtastic radio:** pair the phone's own Meshtastic radio and send a message or your position by LoRa on a private channel. SETTINGS → DATA → **Meshtastic radio** can also send alerts automatically, off by default, with per-type toggles and limits. The app reconnects to the saved radio on its own.
 - **Home dashboard link:** connect the app to `tools/home-dashboard` and manage its connectors, including the dashboard's Meshtastic radio.
 - **ATAK:** catches and Remote ID drones as CoT map markers over UDP.
 - **Probe intel**, a **rule builder** with node presets, and the **AXEOFF** and **BLE Sniff** engines.
